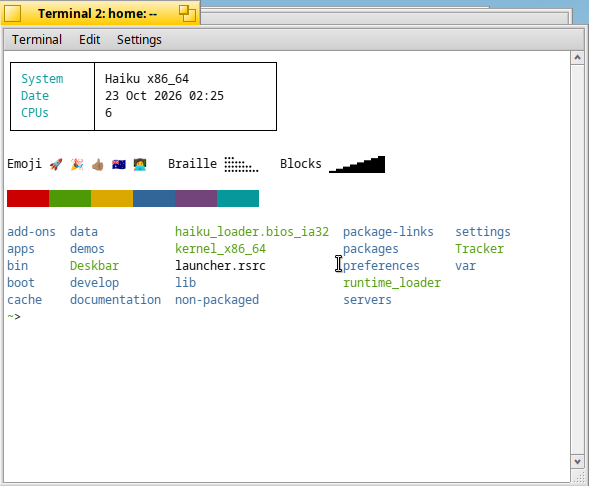
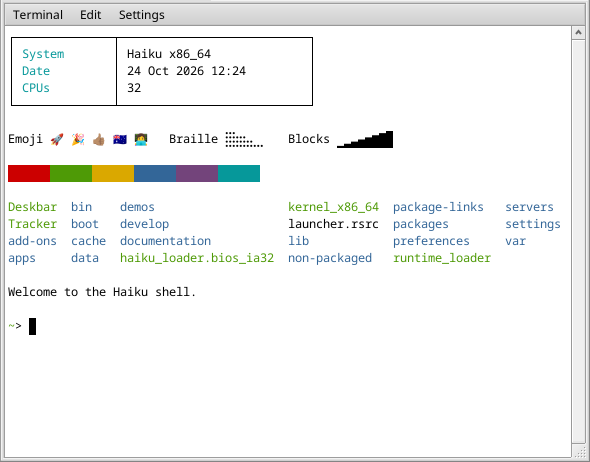
Apps: System tab for the reworked Haiku apps and preferences
- New System tab: Media preferences, MediaConverter, Bluetooth and Wi-Fi
  preferences, Quick Look and network shares in Tracker, Mail and Terminal;
  the moved apps leave Media Tools, Developer and Everyday
- New X399 captures: Wi-Fi (network names pixelated), Bluetooth, Quick Look,
  network shares, and Terminal on the GTX 1070
- Bluetooth, Wi-Fi and Tracker icons rendered from their HVIF resources;
  shared icons show once on a tab
- Four-column tab grid; apps page title on one line
- Home highlight now points to the System tab

Changed region(s): [[0.0, 0.0, 1.0, 1.0], [0.4584, 0.2121, 0.489, 0.2424]]

diff --git a/static/assets/site.css b/static/assets/site.css
@@ -102,7 +102,7 @@ body.home .header-inner nav{background:rgb(255 255 255 / .55);border-color:rgb(2
 .closing h2{color:#fff;max-width:720px}.closing p:not(.eyebrow){color:#b7c4c2;max-width:560px}
 
 /* Inner pages */
-.page-intro{padding:84px 0 52px;max-width:900px}
+.page-intro{padding:84px 0 52px;max-width:900px}.page-intro.wide{max-width:none}
 .page-intro h1{font-size:clamp(42px,5vw,68px);margin-bottom:22px}
 .section-heading{display:flex;align-items:baseline;justify-content:space-between;gap:20px;margin:56px 0 26px}
 .section-heading h2{font-size:30px;margin:0}
@@ -133,7 +133,7 @@ body.home .header-inner nav{background:rgb(255 255 255 / .55);border-color:rgb(2
 .summit-downloads{margin:0 0 26px}
 
 /* Apps page categories: tabs with site.js, jump links without. */
-.app-tabs{display:grid;grid-template-columns:repeat(3,minmax(0,1fr));gap:10px;margin-bottom:48px}
+.app-tabs{display:grid;grid-template-columns:repeat(4,minmax(0,1fr));gap:10px;margin-bottom:48px}
 .app-tabs a{display:flex;flex-direction:column;gap:6px;padding:20px 22px;border:1px solid var(--line);border-radius:var(--r);background:var(--white);text-decoration:none;color:var(--ink);transition:background .2s,border-color .2s,transform .2s}
 .app-tabs a:hover{border-color:var(--line-2);background:#fdfcf9;transform:translateY(-1px)}
 .app-tabs strong{font-size:19px;font-weight:550;letter-spacing:-.02em}
@@ -236,7 +236,7 @@ summary{cursor:pointer;color:var(--deep);font-weight:600}
   .statement{grid-template-columns:1fr;gap:10px}
   .feature-row,.hardware-row{gap:36px}
   .image-card{padding:24px}.image-card h3{font-size:26px}.image-grid{gap:12px;grid-template-columns:repeat(2,1fr)}
-  .app-tabs{grid-template-columns:repeat(2,minmax(0,1fr))}
+  .app-tabs{grid-template-columns:repeat(2,minmax(0,1fr))}.app-tabs a:last-child:nth-child(odd){grid-column:1/-1}
   .footer-inner{grid-template-columns:1fr 1fr}.footer-brand{grid-column:1/-1}
 }
 @media(max-width:760px){

diff --git a/scripts/build.py b/scripts/build.py
@@ -48,8 +48,9 @@ def page(path, title, description, body):
     target.parent.mkdir(parents=True, exist_ok=True)
     target.write_text(html)
 
-def intro(kicker, title, text):
-    return f'<div class="page-intro"><p class="eyebrow">{kicker}</p><h1>{title}</h1><p class="lead">{text}</p></div>'
+def intro(kicker, title, text, wide=False):
+    # A wide intro lets a long title use the full content width.
+    return f'<div class="page-intro{" wide" if wide else ""}"><p class="eyebrow">{kicker}</p><h1>{title}</h1><p class="lead">{text}</p></div>'
 
 # Small line icons for the home page's three principles.
 ICONS = {
@@ -77,7 +78,7 @@ def home():
 <article><a class="highlight-image" href="{url('apps/#office')}"><img src="{url('assets/screenshots/wordcraft.png')}" alt="WordCraft running on Haiku" loading="lazy"></a><span class="tag">Office Suite</span><h3>A new office suite.</h3><p>WordCraft, GridCraft, PDFCraft and DeckCraft: early native ports for documents, spreadsheets, PDFs and presentations.</p>{link(url('apps/#office'), 'Explore the Craft apps ›', 'text-link')}</article>
 <article><a class="highlight-image" href="{url('apps/#proton')}"><img src="{url('assets/screenshots/proton-vpn.png')}" alt="Proton VPN on airOS" loading="lazy"></a><span class="tag">Proton</span><h3>Proton apps.</h3><p>Community ports of Proton VPN and Proton Mail Bridge, built by airOS CI and published as rolling releases.</p>{link(url('apps/#proton'), 'Meet the Proton ports ›', 'text-link')}</article>
 <article><a class="highlight-image" href="{url('summit/')}"><img src="{url('assets/screenshots/summit-firefox-addon.png')}" alt="Summit offering to install an extension from Firefox Add-ons" loading="lazy"></a><span class="tag">Summit Browser</span><h3>Native WebKit browser called Summit.</h3><p>Reader mode, PDFs, store extensions, streaming media and native developer tools, for airOS and stock Haiku.</p>{link(url('summit/'), 'Discover Summit ›', 'text-link')}</article>
-<article><a class="highlight-image" href="{url('apps/#media')}"><img src="{url('assets/screenshots/mediaconverter.png')}" alt="MediaConverter on airOS" loading="lazy"></a><span class="tag">Media Tools</span><h3>Media, reworked.</h3><p>A clearer Media preferences app and a new MediaConverter with queues, previews and GPU encoding.</p>{link(url('apps/#media'), 'Explore the media tools ›', 'text-link')}</article></div></section>
+<article><a class="highlight-image" href="{url('apps/#system')}"><img src="{url('assets/screenshots/mediaconverter.png')}" alt="MediaConverter on airOS" loading="lazy"></a><span class="tag">System</span><h3>The system, reworked.</h3><p>A new MediaConverter with GPU encoding, clearer Media preferences, new Wi-Fi and Bluetooth panels, and Quick Look and network shares in Tracker.</p>{link(url('apps/#system'), 'Explore the system apps ›', 'text-link')}</article></div></section>
 <section class="closing"><img src="{url('assets/mark.png')}" alt="" aria-hidden="true"><p class="eyebrow">An experiment you can explore</p><h2>Open source. Ongoing work.<br>A desktop with room to grow.</h2><p>Development builds are available now. Check the hardware notes, try the apps, or follow along in the source.</p><div class="actions">{link(url('downloads/'), 'Get airOS', 'button light')}{link(url('source/'), 'Explore the code ↗', 'button ghost-light')}</div></section>'''
     page('', 'Built on Haiku. Extended with AI.', 'An independent Haiku-based operating system using AI to expand hardware support and native applications.', body)
 
@@ -103,7 +104,7 @@ def feature_row(item, prefix=''):
         label = 'In airOS system builds →' if download == 'downloads/#system' else 'Downloads & availability →'
         links += link(url(download), label, 'text-link')
     links += ''.join(link(x['href'], x['label'], 'text-link') for x in item.get('links', []))
-    heading = f'{app_icon(item["id"], 56)}<h3>{e(item["title"])}</h3><p>{e(item["text"])}</p>'
+    heading = f'{app_icon(item.get("icon", item["id"]), 56)}<h3>{e(item["title"])}</h3><p>{e(item["text"])}</p>'
     details = f'<ul class="checks">{"".join("<li>"+e(x)+"</li>" for x in item["features"])}</ul><div class="device-links">{links}</div>'
     shots = item.get('screenshots') or ([item['screenshot']] if item.get('screenshot') else [])
     captures = ''.join(capture(id) for id in shots)
@@ -124,16 +125,19 @@ def app_tabs():
 def tab_summary(tab):
     if tab.get('summit'):
         return 'Chrome and Firefox extension support, hardware-accelerated WebGL and media decoding, developer tools, reader mode, PDF viewing, WebHID and more.'
+    if tab.get('summary'):
+        return tab['summary']
     return ' · '.join(item['title'] for item in tab['items'])
 
 def applications():
     data = app_tabs()
     summit_data = json.loads((ROOT / 'content/summit.json').read_text())
-    body = intro('Made for your desktop', 'Modern support of common tools.', 'Write, listen, build, browse and stay private. Native ports and reworked Haiku tools bring more of your day onto the desktop. Choose a category to see its apps.')
+    body = intro('Made for your desktop', 'Modern support of common tools.', 'Write, listen, build, browse and stay private. Native ports and reworked Haiku tools bring more of your day onto the desktop. Choose a category to see its apps.', wide=True)
     # Without JavaScript these are jump links and every panel stays visible;
     # site.js turns them into tabs whose panels open when selected.
     body += '<nav class="app-tabs" aria-label="Application categories" data-app-tabs>'
-    icons = lambda tab: ''.join(app_icon(id, 24) for id in (['summit'] if tab.get('summit') else [item['id'] for item in tab['items']]))
+    # Items that share an icon (Tracker's features) show it once on the tab.
+    icons = lambda tab: ''.join(app_icon(id, 24) for id in (['summit'] if tab.get('summit') else dict.fromkeys(item.get('icon', item['id']) for item in tab['items'])))
     body += ''.join(f'<a href="#{tab["id"]}" data-tab="{tab["id"]}"><span class="tab-icons">{icons(tab)}</span><strong>{e(tab["label"])}</strong><span>{e(tab_summary(tab))}</span></a>' for tab in data['tabs'])
     body += '</nav>'
     for tab in data['tabs']:
@@ -148,7 +152,7 @@ def applications():
             body += ''.join(feature_row(item) for item in tab['items'])
         body += '</section>'
     body += '<p class="meta">Features and port notes reviewed '+data['reviewed']+'. See each project’s source for current limitations.</p>'
-    page('apps/', 'Applications', 'The airOS apps: the Craft office suite, media tools, developer tools, the Summit browser, Proton VPN and Proton Mail Bridge, Mail, Clipper and AirShot.', body)
+    page('apps/', 'Applications', 'The airOS apps: the Craft office suite, media tools, developer tools, the Summit browser, Proton VPN and Proton Mail Bridge, Clipper, AirShot, and the reworked system apps and preferences.', body)
 
 def summit():
     data = json.loads((ROOT / 'content/summit.json').read_text())

diff --git a/README.md b/README.md
@@ -31,8 +31,11 @@ both from the repository's actual Pages configuration.
 ## Content and design
 
 - Home: credit Haiku, explain the independent project and AI-assisted approach.
-- Apps: six categories as tabs (Office Suite, Media Tools, Developer, Summit Browser,
-  Proton and Everyday), each tab and app row showing the apps' own icons. A panel
+- Apps: seven categories as tabs (Office Suite, Media Tools, Developer, Summit Browser,
+  Proton, Everyday and System), each tab and app row showing the apps' own icons.
+  System gathers the reworked Haiku apps and preferences (Media preferences,
+  MediaConverter, Bluetooth, Wi-Fi, Quick Look and network shares in Tracker, Mail,
+  Terminal), so no app appears in two tabs. A panel
   opens when its tab is selected; links to a panel or to an app inside one open it.
   Without JavaScript the tabs are jump links and every panel is shown.
 - Summit: browser features, compatibility limits and separate airOS/stock-Haiku builds.
@@ -78,12 +81,18 @@ Albums view were planned for the Framework 13, which was offline. AirTime (Big B
 24 October 2026. The Proton VPN and Proton Mail
 Bridge captures are the CI-built packages on the X399 the same day; Proton VPN is
 signed in to the repository's stand-in test API (`tools/fake-proton`) and no
-connection was made. Clipper, PhotoCraft, LightCraft, Code - OSS, pgAdmin 4, GitHub Desktop and Terminal were captured in a QEMU
+connection was made. Clipper, PhotoCraft, LightCraft, Code - OSS, pgAdmin 4 and GitHub Desktop were captured in a QEMU
 VM running the 23 October x86-64 image live, with the separate developer packages
 installed and sample files written for the captures. Mail was captured on the X399
 on 24 October 2026 with a separate `--database` holding sample messages written
 for the capture, never the machine's own mailbox. Third-party content in a capture
-is credited in its caption. The favicon uses the
+is credited in its caption. The System tab's Wi-Fi, Bluetooth, Quick Look, network
+shares and Terminal captures are from the X399 on 24 October 2026. The Wi-Fi capture's
+network names are pixelated, the only edit to any capture. The Bluetooth panel shows
+no adapter because the MT7922's Bluetooth was not attached to USB at the time.
+Quick Look previews a 640 × 360 copy of the desktop artwork in a folder made for the
+capture. The Wi-Fi, Bluetooth and Tracker icons are rendered the same way as the app
+icons. The favicon uses the
 [square airOS mark](https://github.com/jmgasper/haiku/blob/master/data/artwork/airos/airos-mark.svg),
 with an SVG and 16/32/48-pixel ICO fallbacks rendered from that vector.
 The AirTime and MediaConverter captures include Big Buck Bunny, © Blender Foundation,
